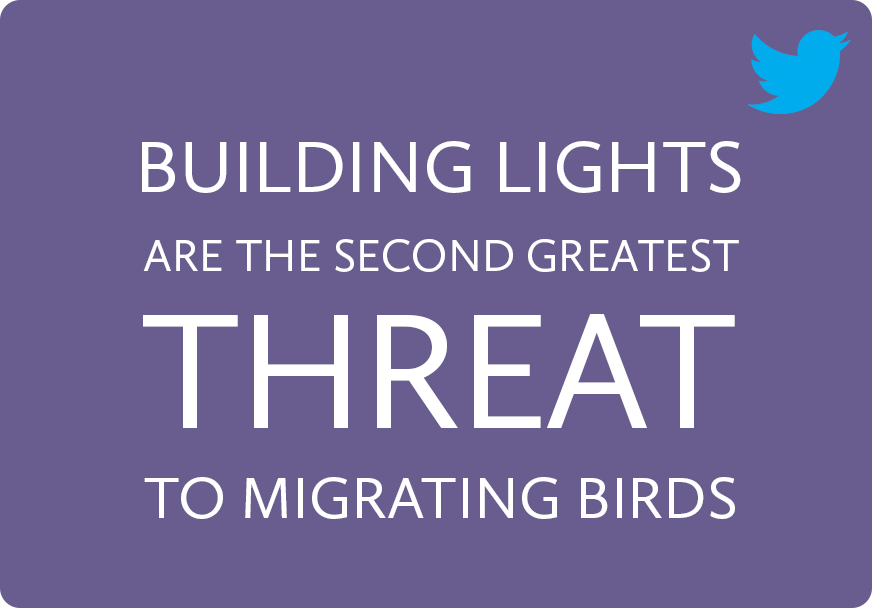
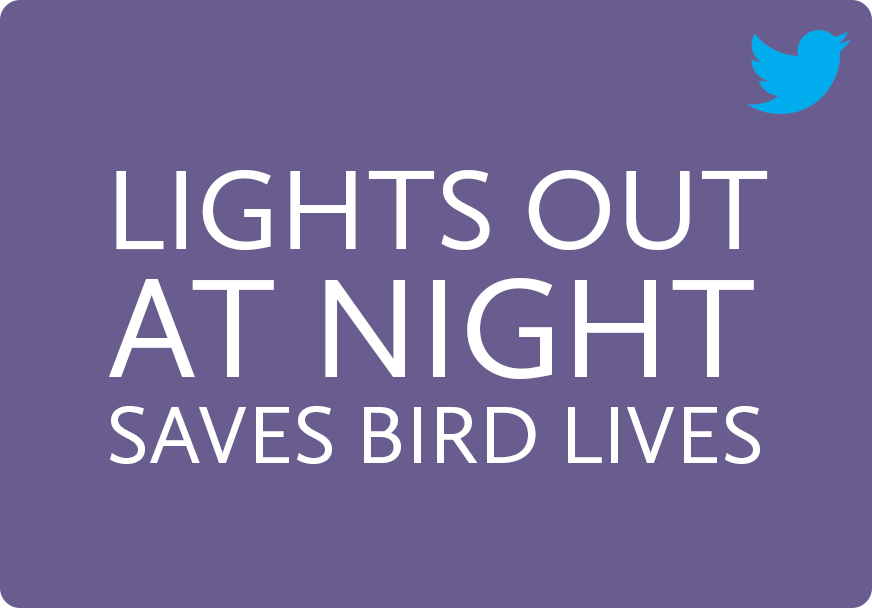
lightsout tip changes

Changed region(s): [[0.1239, 0.2188, 0.8979, 0.875], [0.2167, 0.8438, 0.2477, 0.875]]

diff --git a/css/bootstrap.css b/css/bootstrap.css
@@ -681,11 +681,6 @@ pre code {
 .dropdown-submenu.pull-left{float:none;}.dropdown-submenu.pull-left>.dropdown-menu{left:-100%;margin-left:10px;-webkit-border-radius:6px 0 6px 6px;-moz-border-radius:6px 0 6px 6px;border-radius:6px 0 6px 6px;}
 
 
-
-
-
-
-
 @font-face{ 
 	font-family: 'Bebas';
 	src: url('/flap/fonts/BEBAS-webfont.eot');
@@ -696,12 +691,12 @@ pre code {
 }
 
 
-
 h1 {font-family:'Bebas';}
 
 
 .wrapper {
 	background: url(/flap/images/top-bg.jpg) repeat-x;
+	
 
 }
 #twitter-widget-0{width:100%;}
@@ -742,10 +737,22 @@ h1 {font-family:'Bebas';}
   }
 }
 
+@media (max-width:1050px) {
+	
+	#wrapper-inner {
+	width:1000;
+	}
+	
+	#header-left {
+	width:655px;
+	float:left;
+}
+}
 
 
 .navbar {
 	margin-top:-27px;
+	border:1px solid red;
 }
 
 .container-wrapper {
@@ -776,9 +783,6 @@ h1 {font-family:'Bebas';}
 .col-md-6 img {
 	width:100%;
 }
-
-
-
 
 
 .fullscreen-img {
@@ -3851,7 +3855,8 @@ padding-top: 15px;
 }
 .navbar-default {
   background-color: #b4a36c;
-  border-color: #e7e7e7;
+  border:none;
+  
 }
 .navbar-default .navbar-brand {
   color: #777777;

diff --git a/styles/layout.css b/styles/layout.css
@@ -56,7 +56,7 @@ body {
 }
 
 #wrapper-inner {
-	 width:1100px; 
+	width:1100px;
 	margin:0 auto;
 }
 

diff --git a/index2.php b/index2.php
@@ -152,11 +152,11 @@ At mobile device sizes, tablets and down, these columns and their nested columns
     
  <div class="row">
       	<div class="col-md-6">
-        	<a href="https://twitter.com/intent/tweet?button_hashtag=LightsOutTO&text=1-10%20birds%20are%20killed%20per%20building%20each%20year"  data-url="http://flap.org/LightsOutTO"><img src="/flap/images/LO-tip3.png" alt="Building lights are the second greatest threat to migrating birds" /></a><script>!function(d,s,id){var js,fjs=d.getElementsByTagName(s)[0],p=/^http:/.test(d.location)?'http':'https';if(!d.getElementById(id)){js=d.createElement(s);js.id=id;js.src=p+'://platform.twitter.com/widgets.js';fjs.parentNode.insertBefore(js,fjs);}}(document, 'script', 'twitter-wjs');</script>
+        	<a href="https://twitter.com/intent/tweet?button_hashtag=LightsOutTO&text=Over%201,000,000%20birds%20die%20from%20window%20collisions%20in%20Toronto%20every%20year"  data-url="http://flap.org/LightsOutTO"><img src="/flap/images/LO-tip3.png" alt="Over 1,000,000 birds die from window collisions in toronto every year" /></a><script>!function(d,s,id){var js,fjs=d.getElementsByTagName(s)[0],p=/^http:/.test(d.location)?'http':'https';if(!d.getElementById(id)){js=d.createElement(s);js.id=id;js.src=p+'://platform.twitter.com/widgets.js';fjs.parentNode.insertBefore(js,fjs);}}(document, 'script', 'twitter-wjs');</script>
 			<div class="row">
-            	<div class="col-md-6"><a href="https://twitter.com/intent/tweet?button_hashtag=LightsOutTO&text=Building%20lights%20are%20the%20second%20greatest%20threat%20to%20migrating%20birds"  data-url="http://flap.org/LightsOutTO"><img src="/flap/images/LO-tip1.png" alt="Building lights are the second greatest threat to migrating birds" /></a><script>!function(d,s,id){var js,fjs=d.getElementsByTagName(s)[0],p=/^http:/.test(d.location)?'http':'https';if(!d.getElementById(id)){js=d.createElement(s);js.id=id;js.src=p+'://platform.twitter.com/widgets.js';fjs.parentNode.insertBefore(js,fjs);}}(document, 'script', 'twitter-wjs');</script> 
+            	<div class="col-md-6"><a href="https://twitter.com/intent/tweet?button_hashtag=LightsOutTO&text=Lights%20out%20at%20night%20saves%20bird%20lives"  data-url="http://flap.org/LightsOutTO"><img src="/flap/images/LO-tip1.png" alt="Lights out at night saves bird lives" /></a><script>!function(d,s,id){var js,fjs=d.getElementsByTagName(s)[0],p=/^http:/.test(d.location)?'http':'https';if(!d.getElementById(id)){js=d.createElement(s);js.id=id;js.src=p+'://platform.twitter.com/widgets.js';fjs.parentNode.insertBefore(js,fjs);}}(document, 'script', 'twitter-wjs');</script> 
 				</div><!-- close col-md-6 building lights -->
-				<div class="col-md-6"><a href="https://twitter.com/intent/tweet?button_hashtag=LightsOutTO&text=1-10%20birds%20are%20killed%20per%20building%20each%20year"  data-url="http://flap.org/LightsOutTO"><img src="/flap/images/LO-tip2.png" alt="Building lights are the second greatest threat to migrating birds" /></a><script>!function(d,s,id){var js,fjs=d.getElementsByTagName(s)[0],p=/^http:/.test(d.location)?'http':'https';if(!d.getElementById(id)){js=d.createElement(s);js.id=id;js.src=p+'://platform.twitter.com/widgets.js';fjs.parentNode.insertBefore(js,fjs);}}(document, 'script', 'twitter-wjs');</script>
+				<div class="col-md-6"><a href="https://twitter.com/intent/tweet?button_hashtag=LightsOutTO&text=1-10%20birds%20are%20killed%20per%20building%20each%20year"  data-url="http://flap.org/LightsOutTO"><img src="/flap/images/LO-tip2.png" alt="1-10 Birds are killed per building each year" /></a><script>!function(d,s,id){var js,fjs=d.getElementsByTagName(s)[0],p=/^http:/.test(d.location)?'http':'https';if(!d.getElementById(id)){js=d.createElement(s);js.id=id;js.src=p+'://platform.twitter.com/widgets.js';fjs.parentNode.insertBefore(js,fjs);}}(document, 'script', 'twitter-wjs');</script>
 				</div><!-- close col-md-6 migrating -->
 			</div><!-- close row -->
 		</div><!-- close col-md-6 after row -->
@@ -183,7 +183,7 @@ At mobile device sizes, tablets and down, these columns and their nested columns
    	</div><!-- close container-wrapper2 -->
 	 </div><!-- container wrapper -->
   
-  <br /><br /><br /><br /><br /><br /><br /><br /><br /><br /><br /><br /><br /><br /><br /><br /><br /><br /><br /><br />
+  <br /><br /><br /><br /><br /><br /><br /><br /><br /><br /><br /><br /><br /><br /><br /><br /><br /><br />
    <div class="container-wrapper3">
    	<div class="fullscreen-img3"></div>
    		<div class="container">
